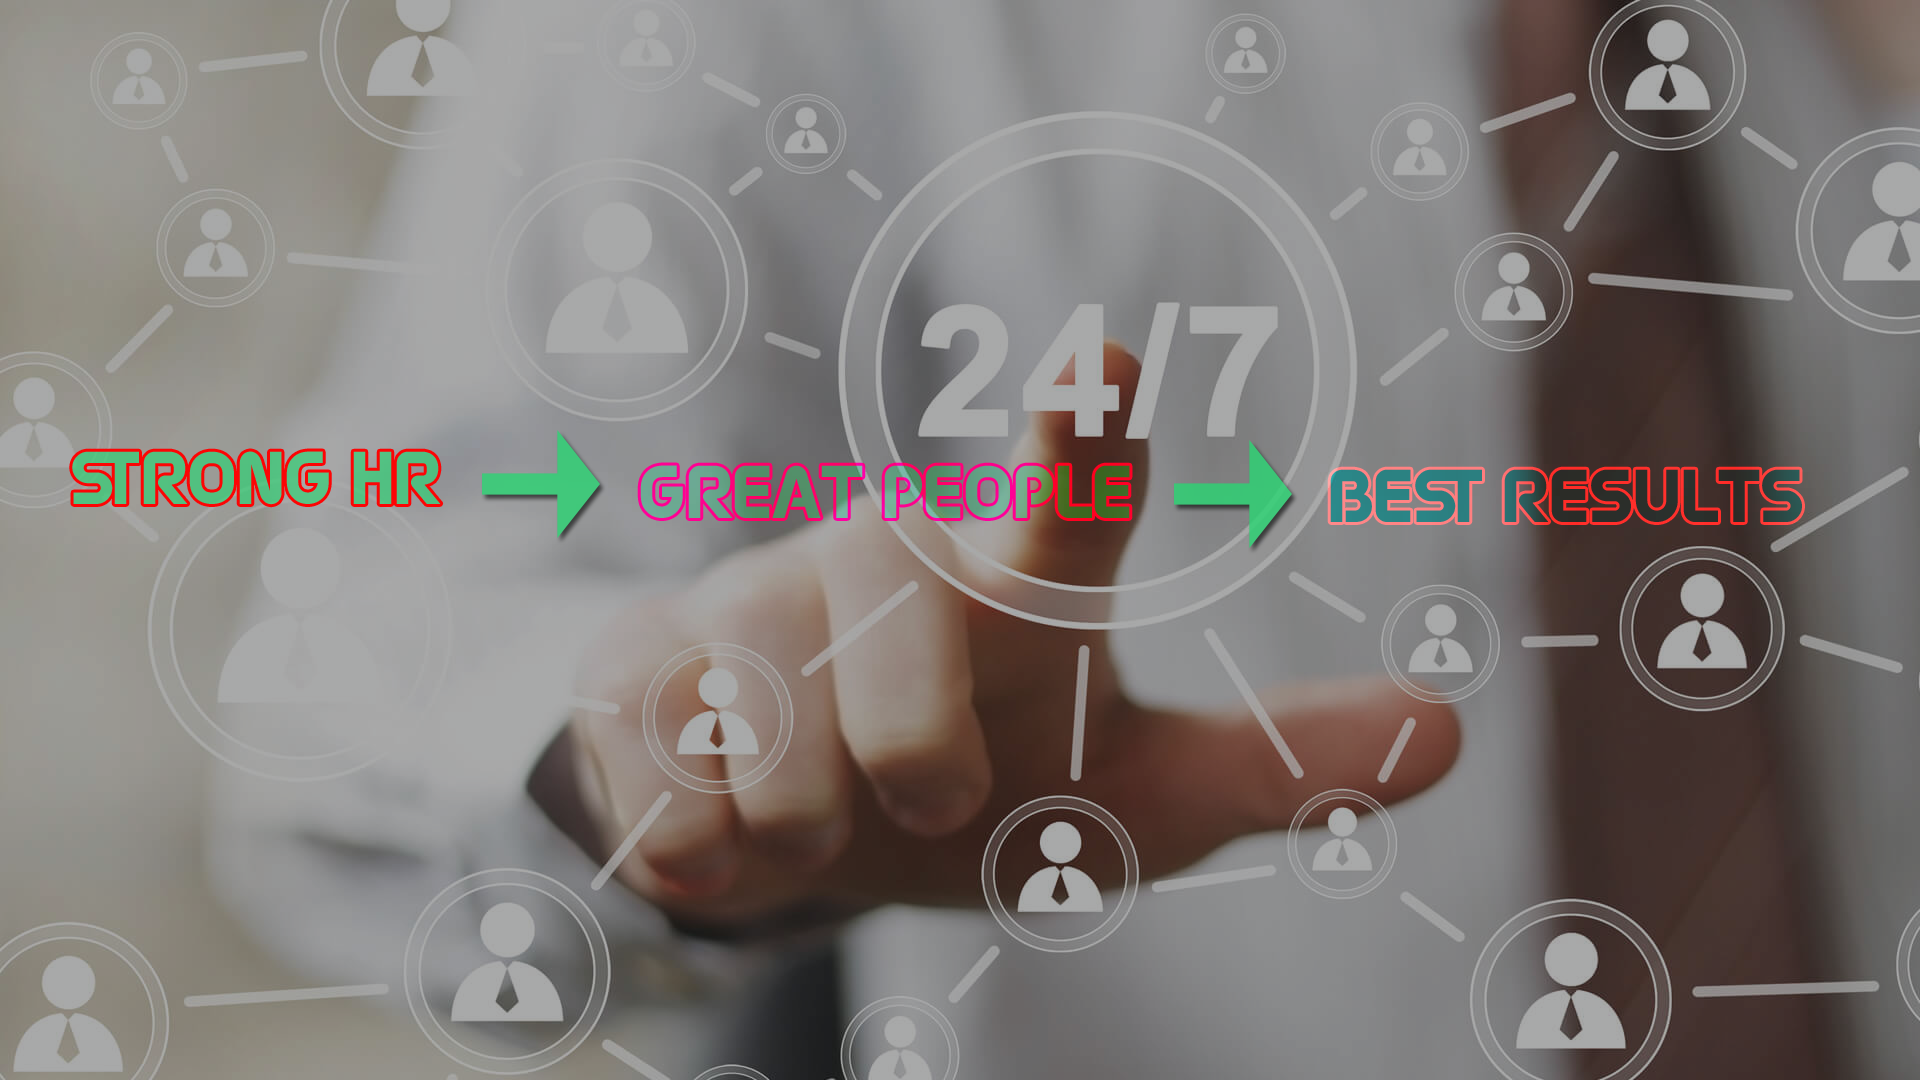
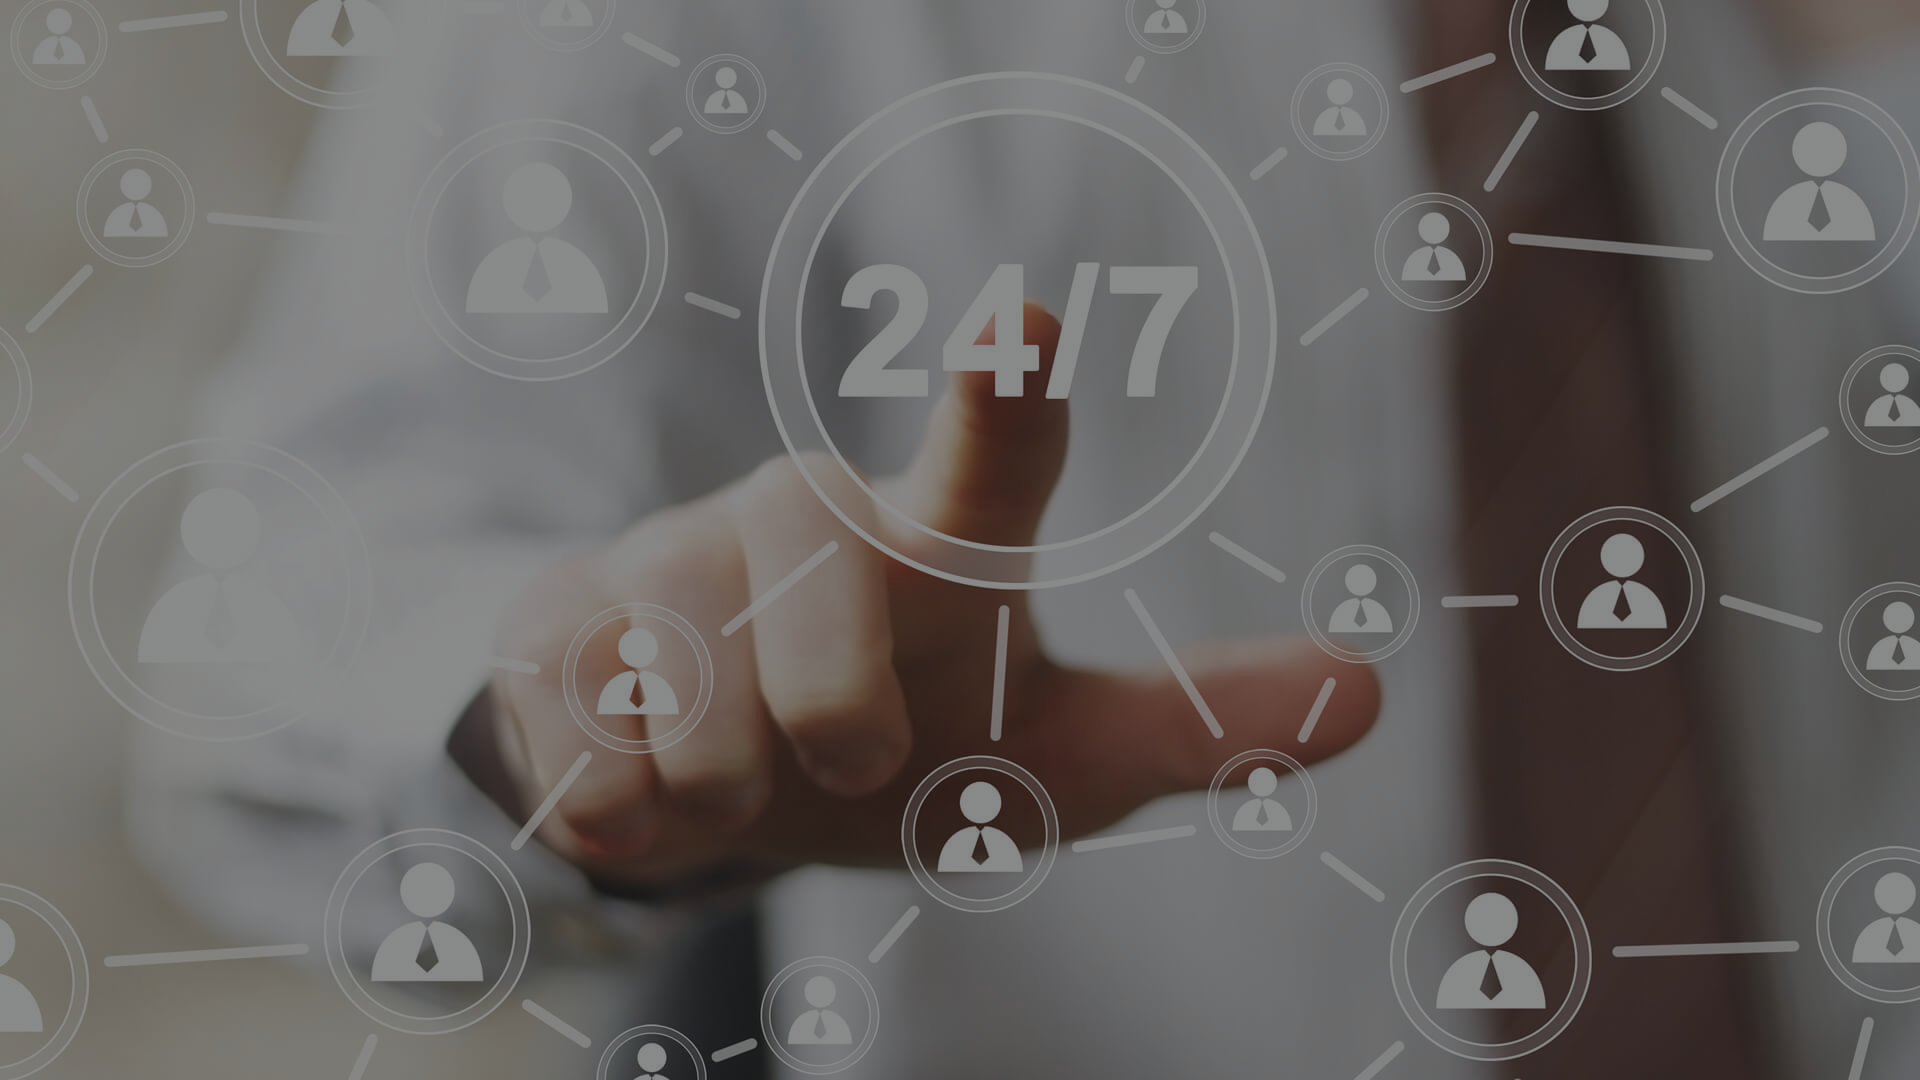
k

diff --git a/src/app/banner/banner.component.html b/src/app/banner/banner.component.html
@@ -16,51 +16,55 @@
     </div>
 </div>
 <div class="banner" id="home2" *ngIf='url=="/home2"'>
-  <!-- <div class="bg-section container">
-            <div class="row text-center">
-                <div class="col-md-3 txt col-12">STRONG HR</div>
-                <div class="col-md-1 col-12">
-                    <i class="fa fa-arrow-right"></i>
-                </div>
-                <div class="col-md-3 txt col-12">GREAT PEOPLE</div>
-                <div class="col-md-1 col-12">
-                    <i class="fa fa-arrow-right"></i>
-                </div>
-                <div class="col-md-4 col-12">BETTER RESULTS</div>
+    <div class="bg-section container">
+        <div class="row text-center">
+            <div class="col-md txt col-12 f1">STRONG <br> HR</div>
+            <div class="col-md-1 col-12">
+                <i class=" txt fa fa-arrow-right" *ngIf='w>768px'></i>
+                <i class=" txt fa fa-arrow-down" *ngIf='w<768px'></i>
             </div>
-    </div>--> 
+            <div class="col-md txt col-12 f1">GREAT <br>PEOPLE</div>
+            <div class="col-md-1 col-12">
+                    <i class=" txt fa fa-arrow-right" *ngIf='w>768px'></i>
+                    <i class=" txt fa fa-arrow-down" *ngIf='w<768px'></i>
+            </div>
+            <div class="col-md txt col-12 f1 ">BETTER RESULTS</div>
+        </div>
+    </div>
 </div>
 <div class="banner" id="home3" *ngIf='url=="/home3"'>
-    <div class="bg-section3  container">
-            <div class="row text-center">
-                <div class="col-md-3 txt col-12 f1">STRONG HR</div>
-                <div class="col-md-1 col-12">
-                    <i class="fa fa-arrow-right"></i>
-                </div>
-                <div class="col-md-3 txt col-12 f2">GREAT PEOPLE</div>
-                <div class="col-md-1 col-12">
-                    <i class="fa fa-arrow-right"></i>
-                </div>
-                <div class="col-md-4 col-12 f1">BETTER RESULTS</div>
+    <div class="bg-section container">
+        <div class="row text-center">
+            <div class="col-md txt col-12 f1">STRONG <br> HR</div>
+            <div class="col-md-1 col-12">
+                <i class=" txt fa fa-arrow-right" *ngIf='w>768px'></i>
+                <i class=" txt fa fa-arrow-down" *ngIf='w<768px'></i>
             </div>
+            <div class="col-md txt col-12 f1">GREAT <br>PEOPLE</div>
+            <div class="col-md-1 col-12">
+                    <i class=" txt fa fa-arrow-right" *ngIf='w>768px'></i>
+                    <i class=" txt fa fa-arrow-down" *ngIf='w<768px'></i>
+            </div>
+            <div class="col-md txt col-12 f1 ">BETTER RESULTS</div>
+        </div>
     </div>
 </div>
 <div class="banner" id="home4" *ngIf='url=="/home4"'>
     <div class="bg-section container">
-            <div class="row text-center">
-                <div class="col-md txt col-12 f1">STRONG HR</div>
-                <div class="col-md-1 col-12">
+        <div class="row text-center">
+            <div class="col-md txt col-12 f1">STRONG <br> HR</div>
+            <div class="col-md-1 col-12">
+                <i class=" txt fa fa-arrow-right" *ngIf='w>768px'></i>
+                <i class=" txt fa fa-arrow-down" *ngIf='w<768px'></i>
+            </div>
+            <div class="col-md txt col-12 f1">GREAT <br>PEOPLE</div>
+            <div class="col-md-1 col-12">
                     <i class=" txt fa fa-arrow-right" *ngIf='w>768px'></i>
                     <i class=" txt fa fa-arrow-down" *ngIf='w<768px'></i>
-                </div>
-                <div class="col-md txt col-12 f1">GREAT PEOPLE</div>
-                <div class="col-md-1 col-12">
-                        <i class=" txt fa fa-arrow-right" *ngIf='w>768px'></i>
-                        <i class=" txt fa fa-arrow-down" *ngIf='w<768px'></i>
-                </div>
-                <div class="col-md txt col-12 f1 ">BETTER RESULTS</div>
             </div>
+            <div class="col-md txt col-12 f1 ">BETTER RESULTS</div>
         </div>
+    </div>
 </div>
 <div class="banner" id="oracle" *ngIf='url=="/oracle"'>
     <div class="container text-center">

diff --git a/src/app/banner/banner.component.css b/src/app/banner/banner.component.css
@@ -17,7 +17,7 @@
 }
 .f1 
 {
-    font-size: 40px;
+    font-size: 60px;
     border: 2px solid rgb(39, 38, 38);    
     border-radius: 15px;
 }
@@ -44,7 +44,7 @@
     margin: 0px;
 }
 #home4{
-background-image: url('../../assets/images/banner-4.jpg');
+background-image: url('../../assets/images/banner-1.jpg');
 }
 #oracle{
     background-color: rgb(15, 18, 202);
